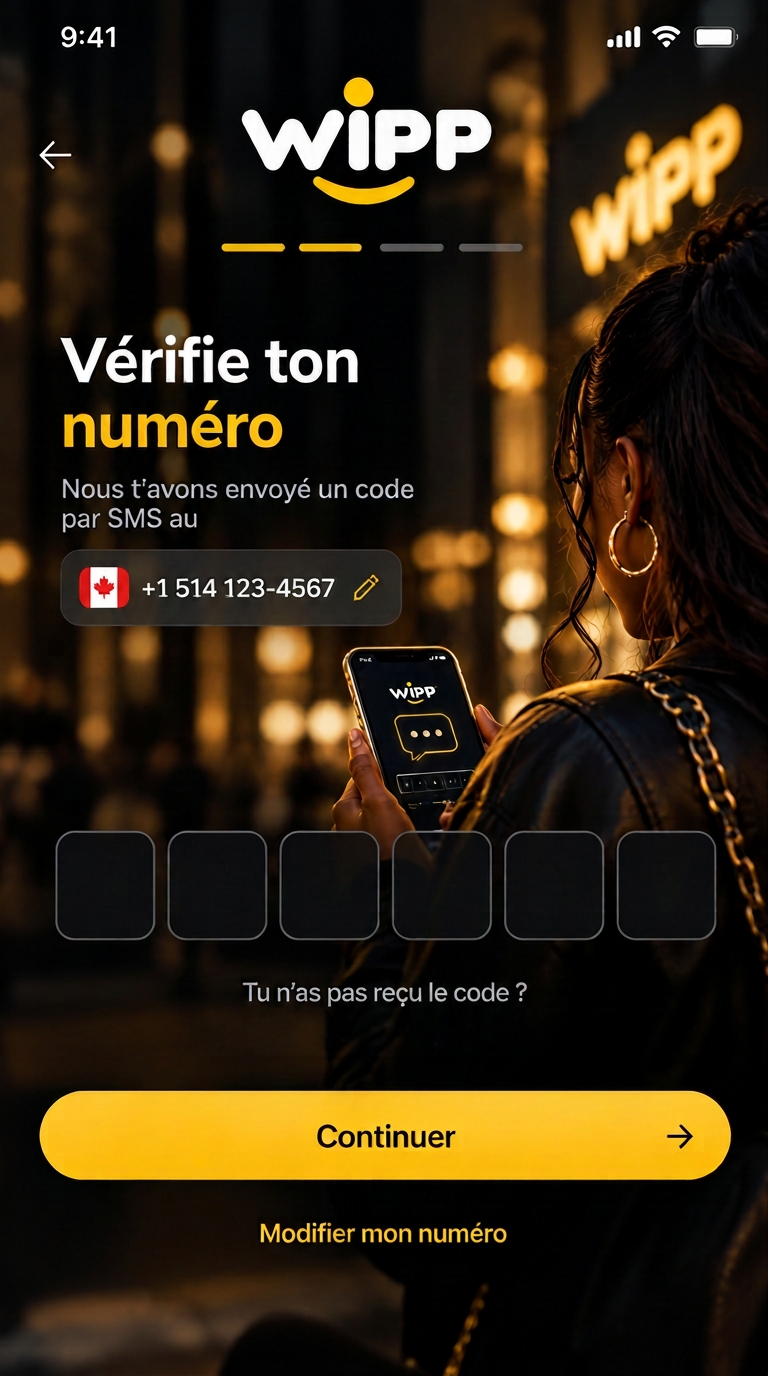
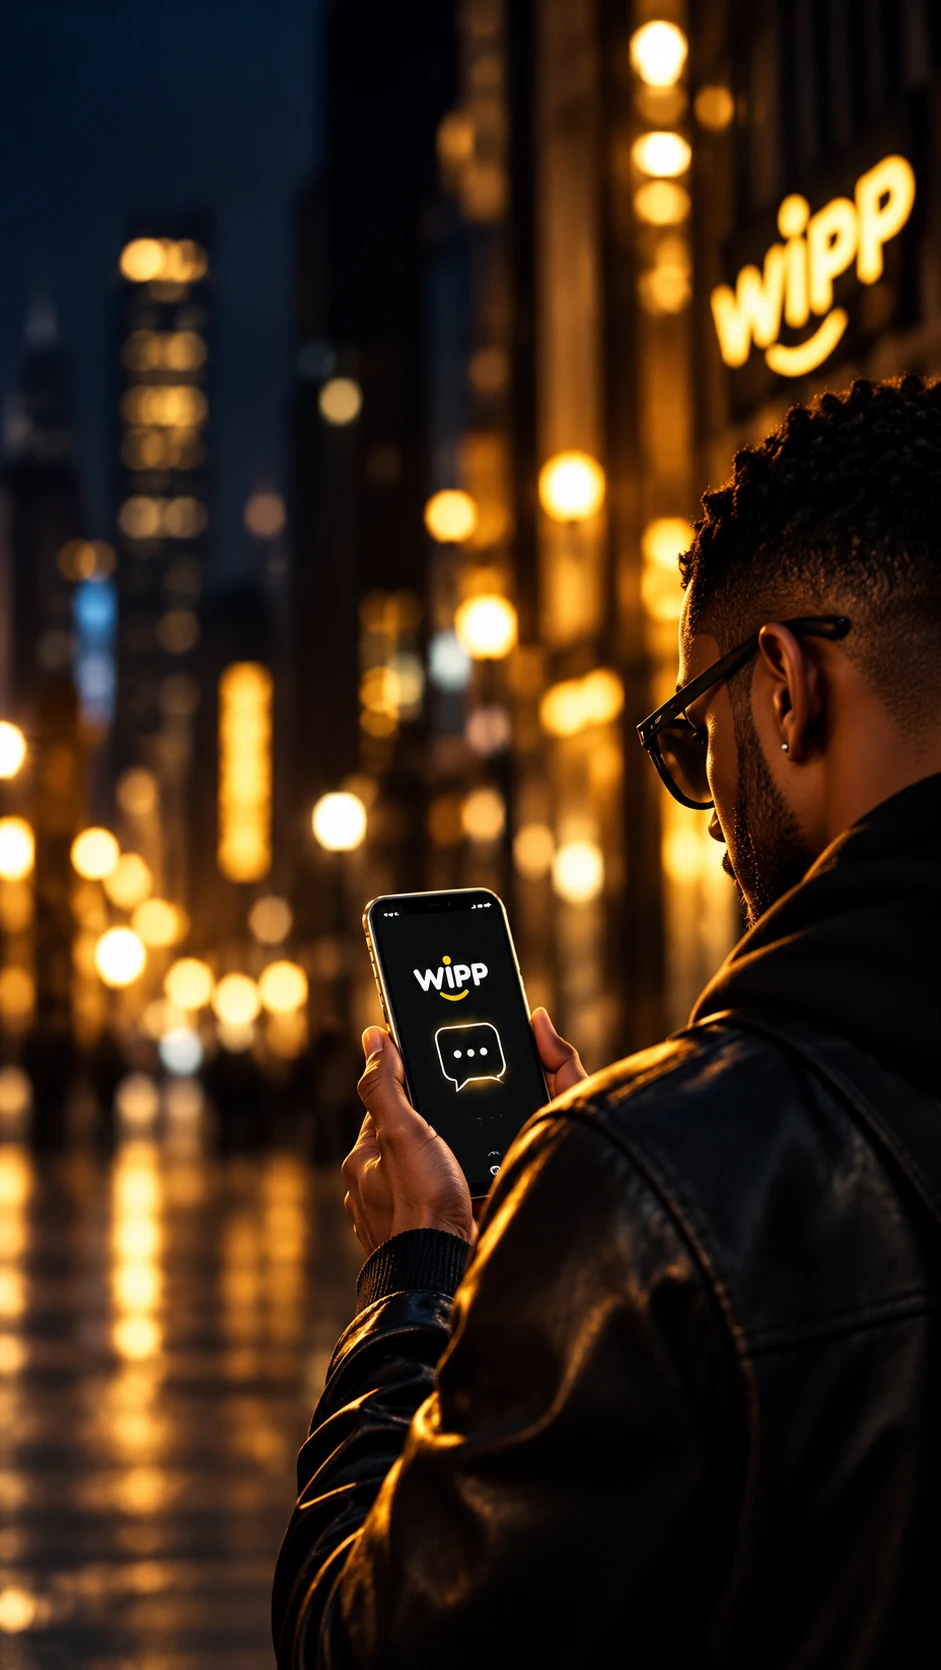
fix(native): écran du code SMS sur nouveau fond décor seul
- titre, numéro formaté avec drapeau et crayon pour le modifier
- 6 cases, renvoi du code, bouton Continuer jaune, « Modifier mon numéro »

diff --git a/native/src/screens/auth.tsx b/native/src/screens/auth.tsx
@@ -213,6 +213,15 @@ function nationalToE164(country: Country, phone: string) {
   return toE164(`${country.dial}${digits}`);
 }
 
+/** "+15145550101" -> "+1 (514) 555-0101", "+2250700000000" -> "+225 07 00 00 00 00". */
+function prettyPhone(e164: string) {
+  const nanp = /^\+1(\d{3})(\d{3})(\d{4})$/.exec(e164);
+  if (nanp) return `+1 (${nanp[1]}) ${nanp[2]}-${nanp[3]}`;
+  const ci = /^\+225(\d{10})$/.exec(e164);
+  if (ci) return `+225 ${ci[1].replace(/(\d{2})(?=\d)/g, "$1 ")}`;
+  return e164;
+}
+
 function phonePlaceholder(country: Country) {
   // Zeros only: a real-looking number made people type it as is.
   if (country.id === "CI") return "00 00 00 00 00";
@@ -773,33 +782,46 @@ export function SmsReferenceScreen() {
   return (
     <Artwork source={authSms}>
       {(reveal) => <>
-      <Abs t={8} l={4} h={6} w={12}>
+      {/* The background is decor only: everything else is drawn here. */}
+      <Abs t={0} l={0} h={100} w={100}>
+        <LinearGradient
+          pointerEvents="none"
+          colors={["rgba(2,5,14,0.8)", "rgba(2,5,14,0.35)", "rgba(2,5,14,0)"]}
+          locations={[0, 0.6, 1]}
+          start={{ x: 0, y: 0 }}
+          end={{ x: 0.2, y: 0.5 }}
+          style={{ flex: 1 }}
+        />
+      </Abs>
+      <Abs t={6} l={4} h={6} w={12}>
         <Pressable accessibilityLabel="Retour" onPress={pop} style={{ flex: 1, alignItems: "center", justifyContent: "center" }}>
           <ChevronLeft size={24} color={colors.fg} />
         </Pressable>
       </Abs>
-      <Abs t={40} l={6} h={5.5} w={78}>
+      <Abs t={4.5} l={32} h={7} w={36}>
+        <Image source={logoGold} style={{ width: "100%", height: "100%" }} contentFit="contain" />
+      </Abs>
+      <Abs t={15} l={6} w={88}>
+        <Text style={{ textShadowColor: "rgba(0,0,0,0.65)", textShadowRadius: 6, color: colors.fg, fontSize: 32, lineHeight: 36, fontFamily: "Inter_700Bold" }}>
+          Vérifie ton <Text style={{ color: colors.accent }}>numéro</Text>
+        </Text>
+        <Text style={{ marginTop: 10, textShadowColor: "rgba(0,0,0,0.65)", textShadowRadius: 6, color: "rgba(247,249,252,0.85)", fontSize: 15, lineHeight: 21 }}>
+          Nous t’avons envoyé un code par SMS au
+        </Text>
         <Pressable
           accessibilityLabel="Modifier mon numéro"
           onPress={pop}
-          style={{
-            flex: 1,
-            flexDirection: "row",
-            alignItems: "center",
-            gap: 8,
-            paddingHorizontal: 12,
-            borderRadius: 10,
-            backgroundColor: colors.authInput,
-          }}
+          style={{ marginTop: 12, alignSelf: "flex-start", flexDirection: "row", alignItems: "center", gap: 10, paddingHorizontal: 14, height: 46, borderRadius: 14, backgroundColor: "rgba(5,8,18,0.82)", borderWidth: 1, borderColor: "rgba(255,255,255,0.14)" }}
         >
-          <Flag id={pending.country ?? "CA"} size={14} />
-          <Text numberOfLines={1} style={{ flex: 1, color: colors.fg, fontSize: 14, fontFamily: "Inter_600SemiBold" }}>
-            {phone}
-          </Text>
+          <Flag id={pending.country ?? "CA"} size={16} />
+          <Text numberOfLines={1} style={{ color: colors.fg, fontSize: 16, fontFamily: "Inter_600SemiBold" }}>{prettyPhone(phone)}</Text>
           <Pencil size={16} color={colors.accent} />
         </Pressable>
       </Abs>
-      <Abs t={60} l={7} h={9} w={86}>
+      <Abs t={66} l={3} h={32.5} w={94}>
+        <View pointerEvents="none" style={{ flex: 1, borderRadius: 24, backgroundColor: "rgba(5,8,18,0.86)", borderWidth: 1, borderColor: "rgba(255,255,255,0.08)" }} />
+      </Abs>
+      <Abs t={67.8} l={7} h={7.2} w={86}>
         <View ref={otpBlockRef} style={{ flex: 1 }}>
           <Pressable onPress={() => {}} style={{ flex: 1, flexDirection: "row", justifyContent: "space-between" }}>
             {Array.from({ length: 6 }, (_, i) => (
@@ -828,7 +850,7 @@ export function SmsReferenceScreen() {
         </View>
       </Abs>
       {error ? (
-        <Abs t={70} l={8} h={5} w={84}>
+        <Abs t={75.8} l={8} w={84}>
           <Text style={{ color: colors.danger, fontSize: 12 }}>{error}</Text>
           {noAccount ? (
             <Pressable
@@ -843,25 +865,21 @@ export function SmsReferenceScreen() {
           ) : null}
         </Abs>
       ) : null}
-      <Abs t={73} l={19} h={5} w={62}>
+      <Abs t={78} l={8} h={5} w={84}>
         <Pressable disabled={seconds > 0 || busy} onPress={() => void resend()} style={{ flex: 1, justifyContent: "center" }}>
-          <Text style={{ textAlign: "center", color: colors.accent, fontSize: 13 }}>
+          <Text style={{ textAlign: "center", color: "rgba(247,249,252,0.6)", fontSize: 12 }}>Tu n’as pas reçu le code ?</Text>
+          <Text style={{ marginTop: 3, textAlign: "center", color: seconds > 0 ? "rgba(255,216,77,0.6)" : colors.accent, fontSize: 13, fontFamily: "Inter_600SemiBold" }}>
             {seconds > 0 ? `Renvoyer le code dans 00:${String(seconds).padStart(2, "0")}` : "Renvoyer le code"}
           </Text>
         </Pressable>
       </Abs>
-      <Abs t={79.2} l={5} h={6.7} w={90}>
-        <Pressable
-          accessibilityLabel="Continuer"
-          disabled={busy || code.length !== 6}
-          onPress={() => void validate()}
-          style={{ flex: 1, alignItems: "center", justifyContent: "center" }}
-        >
-          {busy ? <ActivityIndicator color={colors.accent} /> : null}
-        </Pressable>
+      <Abs t={84} l={6} h={6.6} w={88}>
+        <ContinueHit ready={code.length === 6} busy={busy} label="Continuer" onPress={() => void validate()} solid />
       </Abs>
-      <Abs t={88} l={22} h={5} w={56}>
-        <Pressable accessibilityLabel="Modifier mon numéro" onPress={pop} style={{ flex: 1 }} />
+      <Abs t={91.5} l={20} h={5} w={60}>
+        <Pressable accessibilityLabel="Modifier mon numéro" onPress={pop} style={{ flex: 1, alignItems: "center", justifyContent: "center" }}>
+          <Text style={{ color: colors.accent, fontSize: 14, fontFamily: "Inter_600SemiBold" }}>Modifier mon numéro</Text>
+        </Pressable>
       </Abs>
       <KeyboardDone nativeID={codeAccessoryId} />
       </>}
